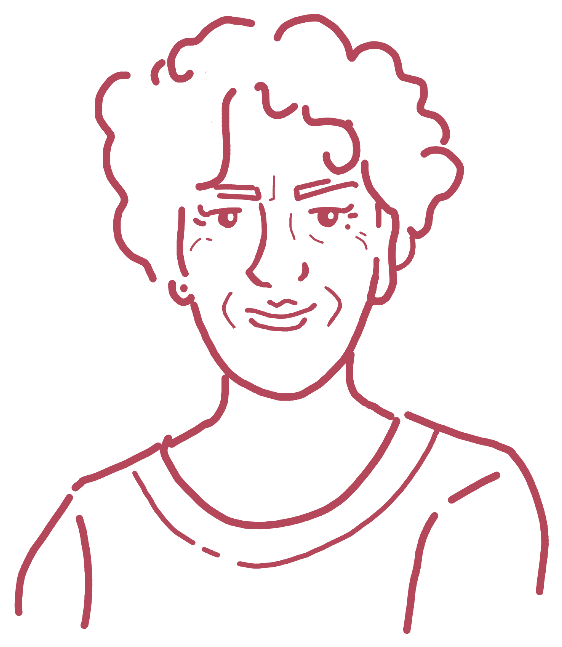
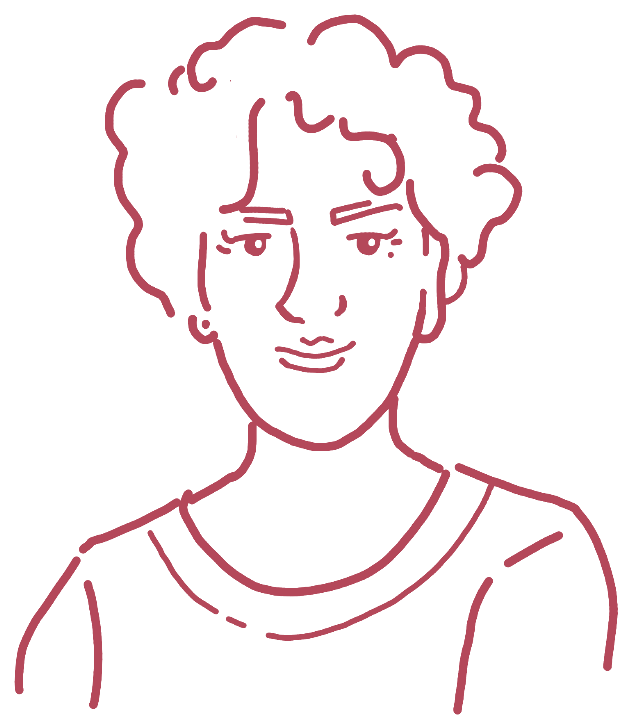
Replace portrait with the new hand-drawn version
Claude-Session: https://claude.ai/code/session_0157qdfkJwXnppXS5xpvTMWf

diff --git a/index.html b/index.html
@@ -109,7 +109,7 @@
     <section class="panel terapeuta" id="terapeuta" aria-labelledby="terapeuta-titulo">
       <p class="band">La terapeuta</p>
       <div class="center-copy">
-        <img class="retrato" src="assets/raquel.png" width="562" height="647" alt="Retrato a línea de Raquel Heras" loading="lazy">
+        <img class="retrato" src="assets/raquel.png?v=2" width="631" height="728" alt="Retrato a línea de Raquel Heras" loading="lazy">
         <h2 id="terapeuta-titulo" class="caps">Raquel Heras</h2>
         <p>Titulada por la <a href="https://shiatsudo.com" target="_blank" rel="noopener">Escuela Japonesa de Shiatsu</a> de Madrid, donde se formó con el maestro Onoda. Una titulación avalada por el Japan Shiatsu College de Japón.</p>
         <p>Recibe en su domicilio de Majadahonda, en un espacio sereno dedicado a la práctica, con horario flexible para adaptarse a ti.</p>
